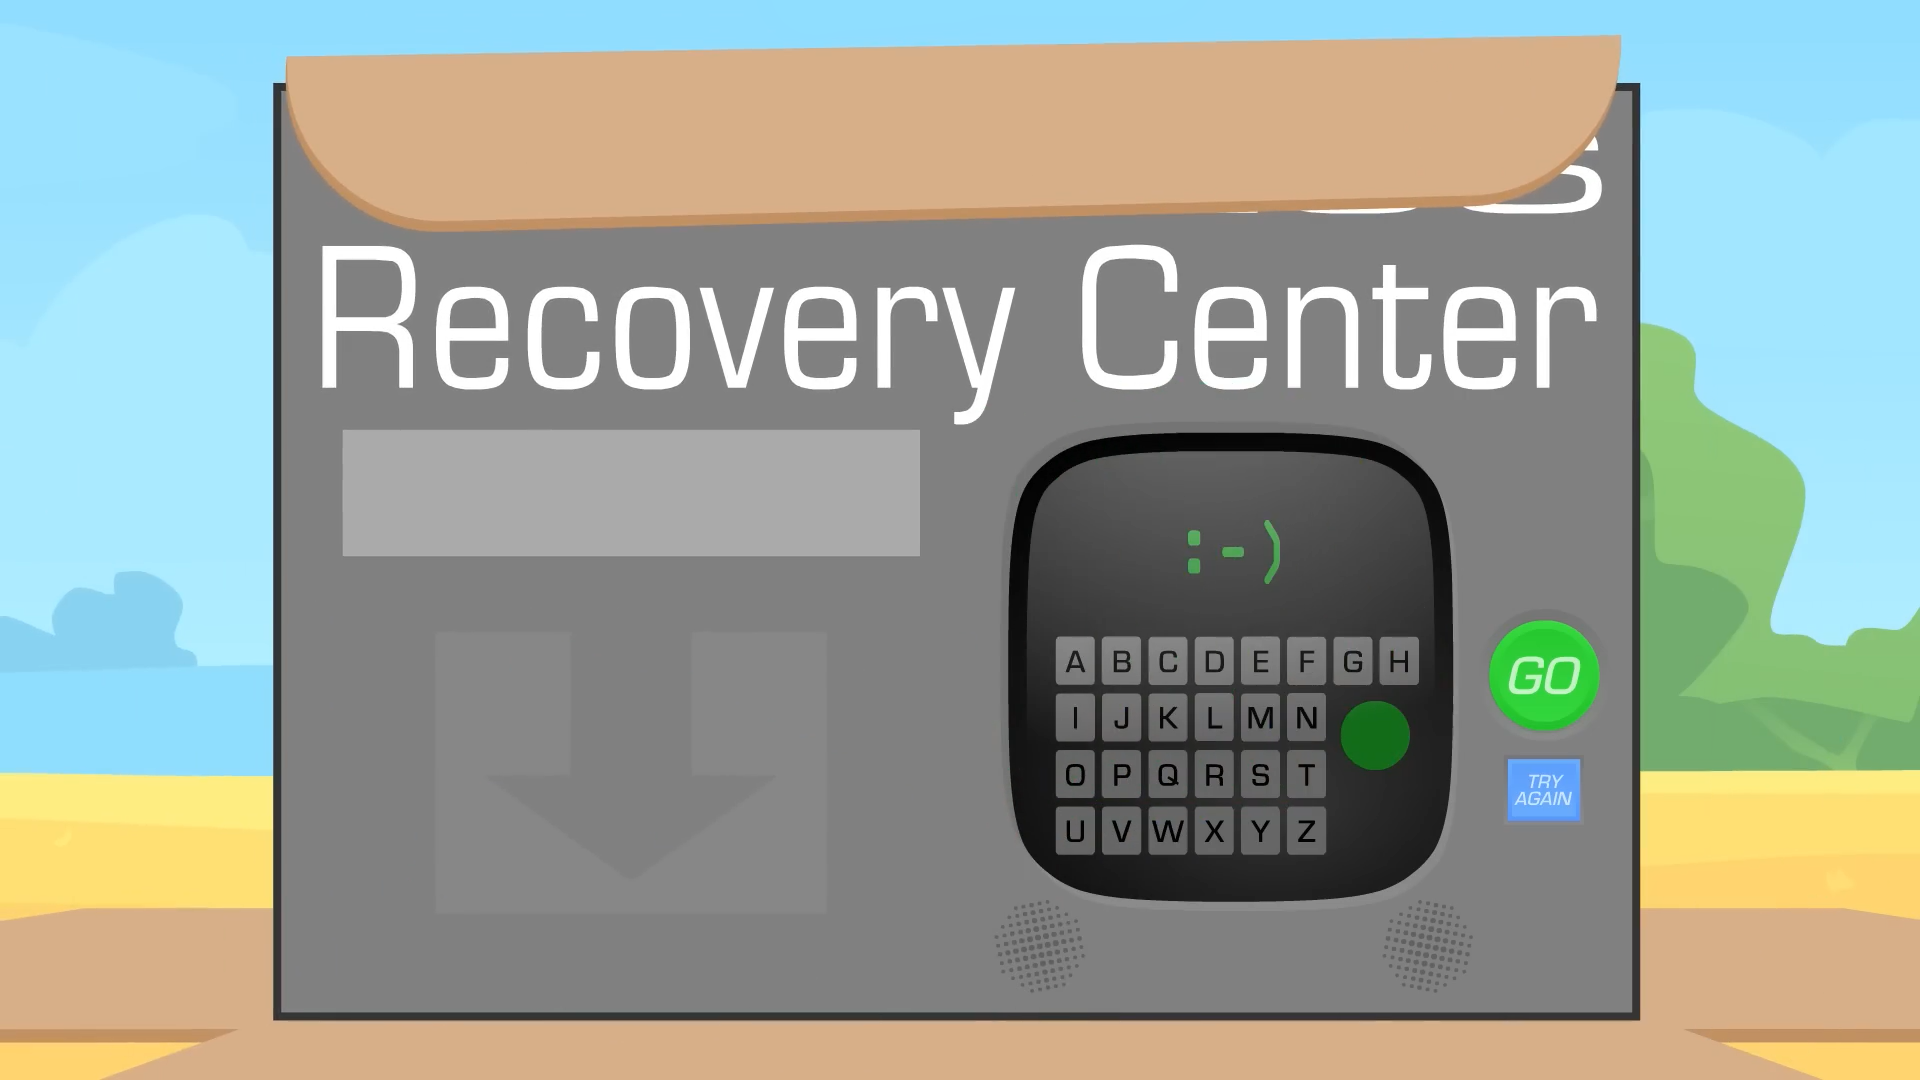
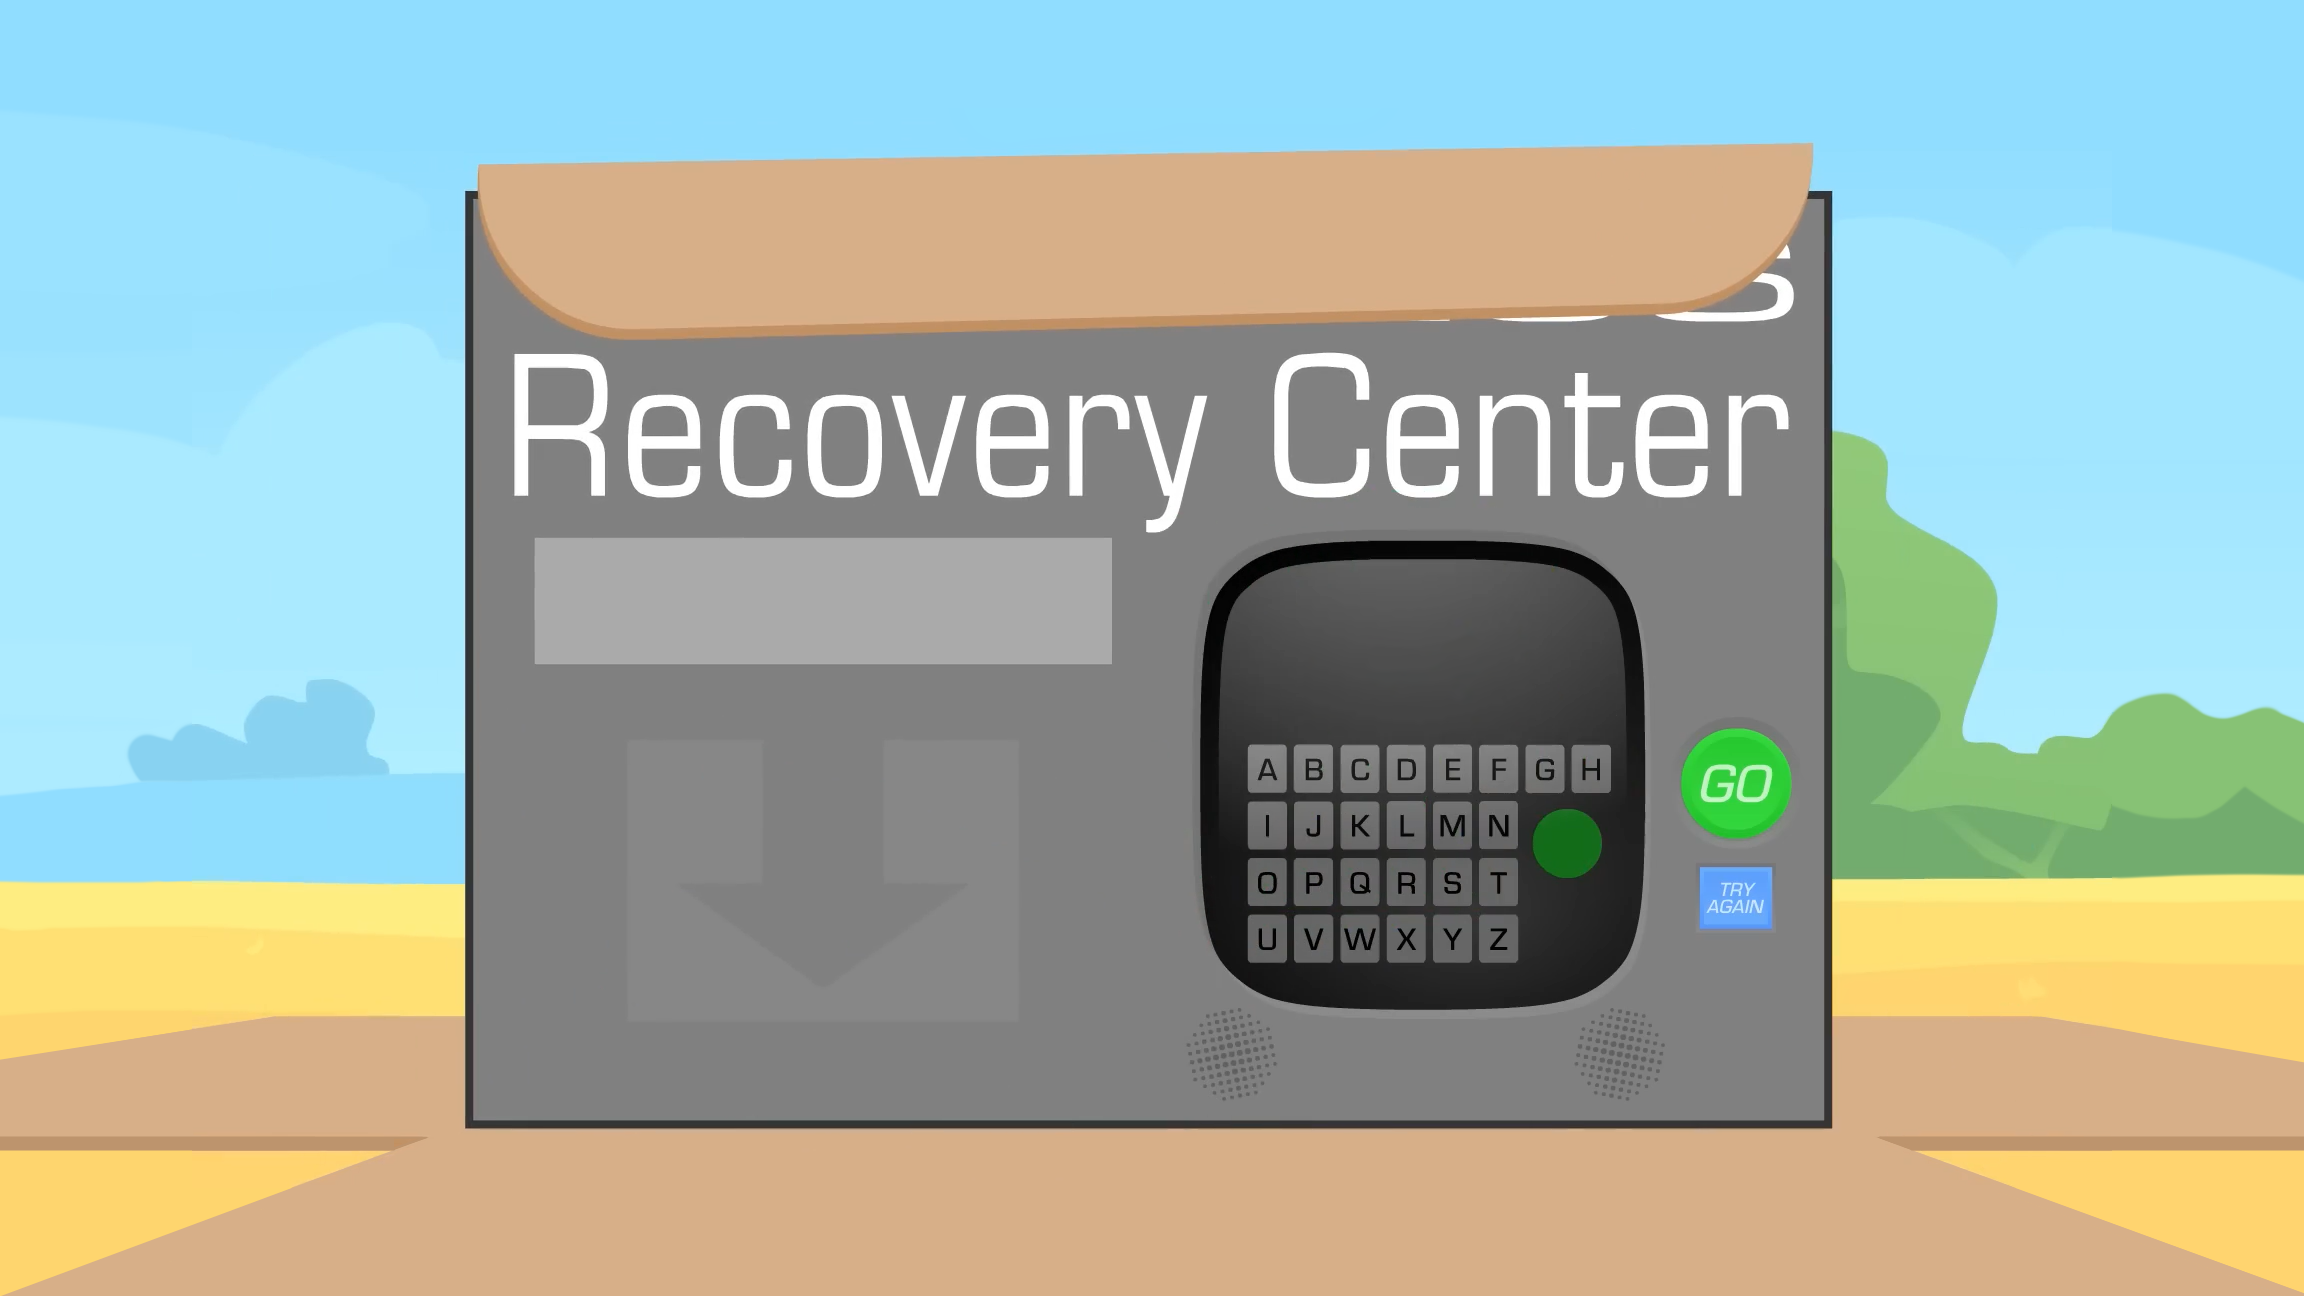
implement keypad toggling & expand bg

diff --git a/src/App.vue b/src/App.vue
@@ -1,16 +1,41 @@
 <template>
   <div id="app">
-    <KeyPad />
+    <div class="toggle-area" @click.stop="isKeypadVisible = true"></div>
+
+    <div v-if="isKeypadVisible" class="keypad-container" ref="keypadContainer">
+      <LetterKeypad />
+    </div>
   </div>
 </template>
 
 <script lang="ts">
-import KeyPad from './components/KeyPad.vue'
+import { ref, onMounted, onUnmounted } from 'vue'
+import LetterKeypad from './components/LetterKeypad.vue'
 
 export default {
   name: 'app',
   components: {
-    KeyPad,
+    LetterKeypad,
+  },
+  setup() {
+    const isKeypadVisible = ref(false)
+    const keypadContainer = ref<HTMLElement | null>(null)
+
+    const clickOutsideEvent = (event: MouseEvent) => {
+      if (keypadContainer.value && !keypadContainer.value.contains(event.target as Node)) {
+        isKeypadVisible.value = false
+      }
+    }
+
+    onMounted(() => {
+      document.addEventListener('click', clickOutsideEvent)
+    })
+
+    onUnmounted(() => {
+      document.removeEventListener('click', clickOutsideEvent)
+    })
+
+    return { isKeypadVisible, keypadContainer }
   },
 }
 </script>
@@ -18,9 +43,38 @@ export default {
 <style scoped>
 :global(body) {
   background: url('./assets/background.png') no-repeat center center fixed;
-  -webkit-background-size: cover;
-  -moz-background-size: cover;
-  -o-background-size: cover;
   background-size: cover;
+}
+
+.toggle-area {
+  position: absolute;
+  width: 228px;
+  height: 218px;
+  top: 61%;
+  left: 62%;
+  transform: translate(-50%, -50%);
+  background: rgba(255, 255, 255, 0);
+  border-radius: 10px;
+  cursor: pointer;
+  transition: background 0.3s ease-in-out;
+}
+
+.toggle-area:hover {
+  background: rgba(255, 255, 255, 0.1);
+}
+
+.keypad-container {
+  position: fixed;
+  top: 50%;
+  left: 50%;
+  transform: translate(-50%, -50%);
+  width: 800px;
+  height: 600px;
+  background: rgba(255, 255, 255, 0.2);
+
+  display: flex;
+  flex-direction: column;
+  justify-content: flex-end;
+  padding-bottom: 1em;
 }
 </style>

diff --git a/src/components/LetterKeypad.vue b/src/components/LetterKeypad.vue
@@ -1,0 +1,41 @@
+<template>
+  <div class="key-container">
+    <div v-for="(row, rowIndex) in keyRows" :key="rowIndex">
+      <LetterKey v-for="(key, keyIndex) in row" :key="keyIndex" :letter="key" class="key-row" />
+    </div>
+  </div>
+</template>
+
+<script lang="ts">
+import LetterKey from './LetterKey.vue'
+
+export default {
+  components: {
+    LetterKey,
+  },
+  data() {
+    return {
+      keyRows: [
+        ['A', 'B', 'C', 'D', 'E', 'F', 'G', 'H'],
+        ['I', 'J', 'K', 'L', 'M', 'N'],
+        ['O', 'P', 'Q', 'R', 'S', 'T'],
+        ['U', 'V', 'W', 'X', 'Y', 'Z'],
+      ],
+    }
+  },
+}
+</script>
+
+<style scoped>
+.key-container {
+  display: flex;
+  flex-direction: column;
+  align-items: left;
+}
+
+.key-row {
+  display: flex;
+  gap: 1px;
+  margin-bottom: 1px;
+}
+</style>

diff --git a/src/components/LetterKey.vue b/src/components/LetterKey.vue
@@ -24,6 +24,10 @@ button {
   float: left;
   margin: 10px;
 
+  display: flex;
+  align-items: center;
+  justify-content: center;
+
   font-size: clamp(16px, 5vw, 40px);
 }
 </style>
